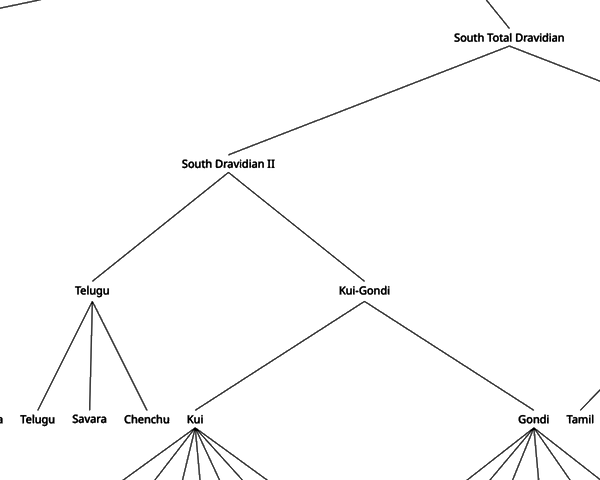
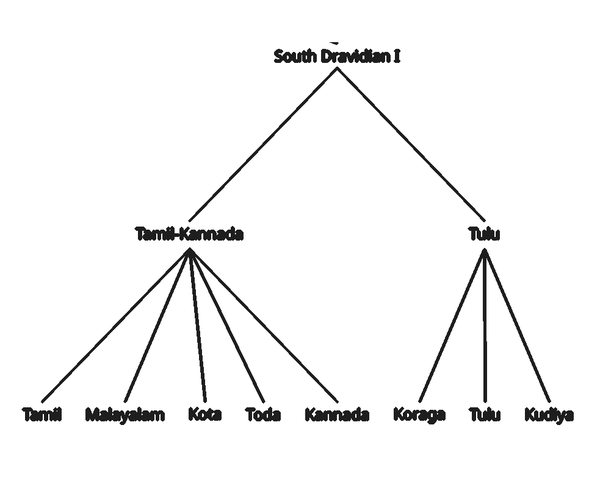
Home thumbnails: stop cropping the map, tree and sign-cluster images
- Three thumbnails are now fitted (object-fit: contain) rather than cropped,
  on desktop and phones: the Dravidian tree (reframed as the complete South
  Dravidian I sub-tree), the Indus sign clusters (the whole figure), and the
  1874 Georgetown map (reframed so "GEORGETOWN" stays whole).
- The map gets a separate 16:9 crop for phones via <picture>.

Claude-Session: https://claude.ai/code/session_01HJhz6hHHW3TfynLRSd5m4x

diff --git a/index.html b/index.html
@@ -91,7 +91,7 @@
 
         <li class="card card-has-img">
           <div class="card-image-wrap">
-            <a href="projects.html#dravidian"><img alt="Part of a tree of the Dravidian language family." class="card-img" src="assets/dravidian-tree-detail.png"/></a>
+            <a href="projects.html#dravidian"><img class="card-img fit" src="assets/dravidian-tree-detail.png" alt="The South Dravidian I branch of the Dravidian language family tree."></a>
           </div>
           <div class="card-body">
             <div class="card-title">
@@ -109,7 +109,7 @@
 
         <li class="card card-has-img">
           <div class="card-image-wrap">
-            <a href="projects.html#indus-semantics"><img alt="Recurring Indus sign clusters with their sign-number codes." class="card-img" src="assets/indus-sign-clusters.png"/></a>
+            <a href="projects.html#indus-semantics"><img class="card-img fit" src="assets/indus-sign-clusters.png" alt="Recurring Indus sign clusters with their sign-number codes."></a>
           </div>
           <div class="card-body">
             <div class="card-title">
@@ -128,7 +128,7 @@
 
         <li class="card card-has-img">
           <div class="card-image-wrap">
-            <a href="projects.html#cemetery"><img alt="Faehtz &amp; Pratt map of Georgetown, D.C., 1874." class="card-img" src="assets/georgetown-map-1874.jpg"/></a>
+            <a href="projects.html#cemetery"><picture><source media="(max-width: 640px)" srcset="assets/georgetown-map-1874-wide.jpg"><img class="card-img fit" src="assets/georgetown-map-1874.jpg" alt="Faehtz &amp; Pratt map of Georgetown, D.C., 1874."></picture></a>
           </div>
           <div class="card-body">
             <div class="card-title">

diff --git a/style.css b/style.css
@@ -381,6 +381,14 @@ a[href^="mailto:"] {
   object-fit: cover;
 }
 
+/* Images that must never be cropped (diagrams, figures with labels, the
+   Georgetown map): fit inside the box instead, hanging from its top edge. */
+.card-img.fit,
+.page-body:not(.single-col) .main-content .card-has-img .card-img.fit {
+  object-fit: contain;
+  object-position: 50% 0;
+}
+
 .page-body:not(.single-col) .main-content .card-has-img .card-body {
   border-bottom: 1px solid var(--border);
   padding-bottom: 1.8em;
